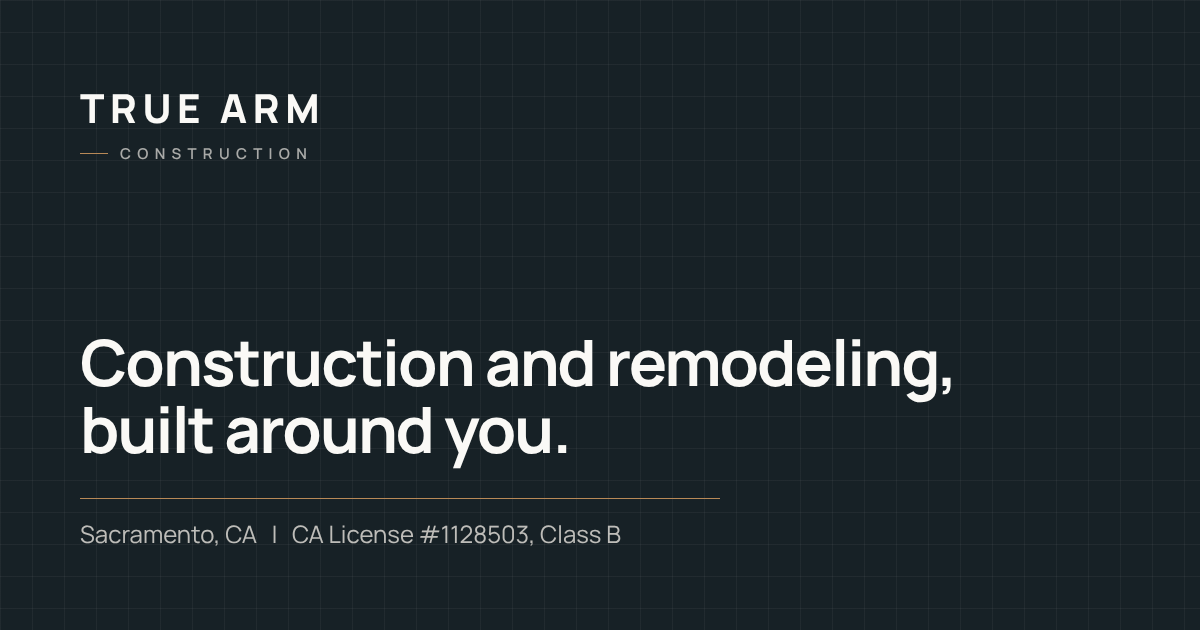
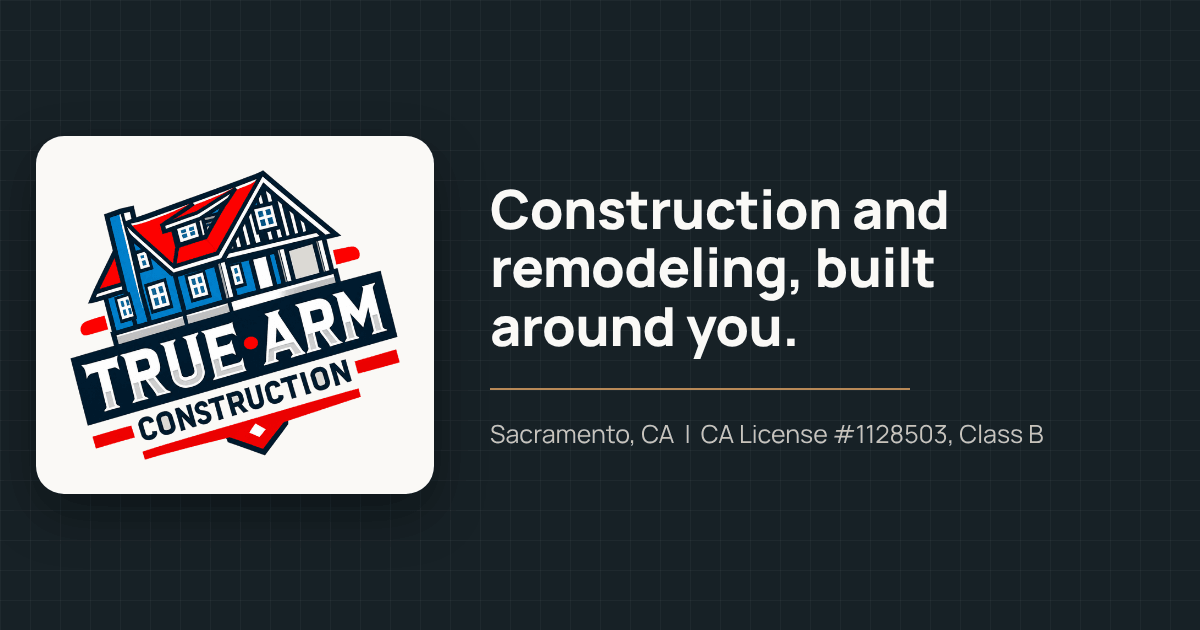
add logic

diff --git a/components/layout/Wordmark.vue b/components/layout/Wordmark.vue
@@ -2,15 +2,25 @@
 import { company } from '~/data/company'
 
 /**
- * Temporary typographic wordmark. Not an official logo.
- * Set company.logo.src to an SVG/PNG to replace it everywhere.
+ * Brand mark. Shows the official logo when company.logo.src is set,
+ * otherwise the typographic fallback wordmark.
+ * On dark backgrounds (tone="light") the logo sits on a light tile, because its
+ * navy "CONSTRUCTION" lettering would disappear on the dark footer.
  */
-withDefaults(defineProps<{ tone?: 'light' | 'dark' }>(), { tone: 'dark' })
+const props = withDefaults(defineProps<{ tone?: 'light' | 'dark'; size?: 'md' | 'lg' }>(), { tone: 'dark', size: 'md' })
+// WebP version lives next to the PNG (same name), see docs/ASSETS.md
+const webp = computed(() => company.logo.src?.replace(/\.png$/i, '.webp'))
+const heightClass = computed(() => (props.size === 'lg' ? 'h-20' : 'h-12 sm:h-14'))
 </script>
 
 <template>
   <span class="inline-flex items-center">
-    <img v-if="company.logo.src" :src="company.logo.src" :alt="company.logo.alt" class="h-9 w-auto" width="160" height="36">
+    <span v-if="company.logo.src" class="inline-flex" :class="tone === 'light' ? 'rounded-xl bg-paper p-2.5' : ''">
+      <picture>
+        <source v-if="webp && webp !== company.logo.src" :srcset="webp" type="image/webp">
+        <img :src="company.logo.src" :alt="company.logo.alt" :class="heightClass" class="w-auto" width="600" height="526" decoding="async">
+      </picture>
+    </span>
     <span v-else class="flex flex-col leading-none" :class="tone === 'light' ? 'text-paper' : 'text-ink'">
       <span aria-hidden="true" class="text-[1.3rem] font-extrabold tracking-[0.14em]">TRUE ARM</span>
       <span aria-hidden="true" class="mt-[5px] flex items-center gap-2 text-[0.6rem] font-semibold tracking-[0.42em]" :class="tone === 'light' ? 'text-stone/70' : 'text-muted'">

diff --git a/components/layout/SiteFooter.vue b/components/layout/SiteFooter.vue
@@ -1,5 +1,5 @@
 <script setup lang="ts">
-import { Instagram } from 'lucide-vue-next'
+import { Instagram, Facebook } from 'lucide-vue-next'
 import { company, formatPhone } from '~/data/company'
 import { serviceGroups, servicesByGroup } from '~/data/services'
 import { enabledAreas } from '~/data/areas'
@@ -14,7 +14,7 @@ const groups = serviceGroups.map((g) => ({ ...g, items: servicesByGroup(g.id) })
   <footer class="on-dark bg-deep text-stone/75">
     <div class="wrap grid gap-12 py-16 lg:grid-cols-12 lg:py-20">
       <div class="lg:col-span-4">
-        <Wordmark tone="light" />
+        <Wordmark tone="light" size="lg" />
         <p class="mt-6 max-w-sm text-[0.9375rem] leading-relaxed">{{ company.description }}</p>
         <div class="mt-6"><LicenseTag tone="dark" /></div>
         <ul class="mt-6 space-y-2 text-[0.9375rem]">
@@ -27,6 +27,11 @@ const groups = serviceGroups.map((g) => ({ ...g, items: servicesByGroup(g.id) })
           <li v-if="company.social.instagram">
             <a :href="company.social.instagram" target="_blank" rel="noopener" class="inline-flex items-center gap-2 font-semibold text-paper hover:underline">
               <Instagram :size="16" aria-hidden="true" /> @truearmconstruction<span class="sr-only"> on Instagram (opens in a new tab)</span>
+            </a>
+          </li>
+          <li v-if="company.social.facebook">
+            <a :href="company.social.facebook" target="_blank" rel="noopener" class="inline-flex items-center gap-2 font-semibold text-paper hover:underline">
+              <Facebook :size="16" aria-hidden="true" /> True Arm Construction<span class="sr-only"> on Facebook (opens in a new tab)</span>
             </a>
           </li>
         </ul>

diff --git a/components/layout/MobileNav.vue b/components/layout/MobileNav.vue
@@ -1,5 +1,5 @@
 <script setup lang="ts">
-import { X, ChevronDown, Instagram, Phone } from 'lucide-vue-next'
+import { X, ChevronDown, Instagram, Facebook, Phone } from 'lucide-vue-next'
 import { company, formatPhone } from '~/data/company'
 import { estimatePath } from '~/data/navigation'
 import type { NavLink } from '~/types'
@@ -110,9 +110,14 @@ const secondary: NavLink[] = [
           </div>
           <div class="mt-8 space-y-3 text-sm text-muted">
             <LicenseTag />
-            <a v-if="company.social.instagram" :href="company.social.instagram" target="_blank" rel="noopener" class="inline-flex items-center gap-2 font-semibold text-ink">
-              <Instagram :size="16" aria-hidden="true" /> Instagram<span class="sr-only"> (opens in a new tab)</span>
-            </a>
+            <div class="flex flex-wrap gap-x-6 gap-y-2">
+              <a v-if="company.social.instagram" :href="company.social.instagram" target="_blank" rel="noopener" class="inline-flex items-center gap-2 font-semibold text-ink">
+                <Instagram :size="16" aria-hidden="true" /> Instagram<span class="sr-only"> (opens in a new tab)</span>
+              </a>
+              <a v-if="company.social.facebook" :href="company.social.facebook" target="_blank" rel="noopener" class="inline-flex items-center gap-2 font-semibold text-ink">
+                <Facebook :size="16" aria-hidden="true" /> Facebook<span class="sr-only"> (opens in a new tab)</span>
+              </a>
+            </div>
           </div>
         </nav>
       </div>

diff --git a/pages/contact.vue b/pages/contact.vue
@@ -1,5 +1,5 @@
 <script setup lang="ts">
-import { Instagram, Mail, MapPin, Phone, Clock } from 'lucide-vue-next'
+import { Instagram, Facebook, Mail, MapPin, Phone, Clock } from 'lucide-vue-next'
 import { company, formatPhone } from '~/data/company'
 
 const title = 'Contact True Arm Construction | Sacramento, CA'
@@ -46,6 +46,10 @@ const { track } = useAnalytics()
               <li v-if="company.social.instagram" class="flex items-center gap-3">
                 <Instagram :size="20" class="text-bronze-dark" aria-hidden="true" />
                 <a :href="company.social.instagram" target="_blank" rel="noopener" class="font-semibold text-ink underline decoration-bronze underline-offset-4">@truearmconstruction<span class="sr-only"> on Instagram (opens in a new tab)</span></a>
+              </li>
+              <li v-if="company.social.facebook" class="flex items-center gap-3">
+                <Facebook :size="20" class="text-bronze-dark" aria-hidden="true" />
+                <a :href="company.social.facebook" target="_blank" rel="noopener" class="font-semibold text-ink underline decoration-bronze underline-offset-4">True Arm Construction<span class="sr-only"> on Facebook (opens in a new tab)</span></a>
               </li>
               <li class="flex items-center gap-3">
                 <MapPin :size="20" class="text-bronze-dark" aria-hidden="true" />

diff --git a/components/layout/SiteHeader.vue b/components/layout/SiteHeader.vue
@@ -1,5 +1,5 @@
 <script setup lang="ts">
-import { ChevronDown, Menu, Instagram } from 'lucide-vue-next'
+import { ChevronDown, Menu, Instagram, Facebook } from 'lucide-vue-next'
 import { company } from '~/data/company'
 import { serviceGroups, servicesByGroup } from '~/data/services'
 import { estimatePath } from '~/data/navigation'
@@ -71,6 +71,9 @@ const isActive = (to: string) => (to === '/' ? route.path === '/' : route.path.s
           <NuxtLink to="/service-areas" class="hover:text-paper">Service Areas</NuxtLink>
           <a v-if="company.social.instagram" :href="company.social.instagram" target="_blank" rel="noopener" class="inline-flex items-center gap-1.5 hover:text-paper">
             <Instagram :size="15" aria-hidden="true" /> Instagram<span class="sr-only"> (opens in a new tab)</span>
+          </a>
+          <a v-if="company.social.facebook" :href="company.social.facebook" target="_blank" rel="noopener" class="inline-flex items-center gap-1.5 hover:text-paper">
+            <Facebook :size="15" aria-hidden="true" /> Facebook<span class="sr-only"> (opens in a new tab)</span>
           </a>
         </nav>
       </div>

diff --git a/nuxt.config.ts b/nuxt.config.ts
@@ -46,11 +46,16 @@ export default defineNuxtConfig({
       viewport: 'width=device-width, initial-scale=1, viewport-fit=cover',
       meta: [
         { name: 'theme-color', content: '#172126' },
-        { name: 'format-detection', content: 'telephone=no' }
+        { name: 'format-detection', content: 'telephone=no' },
+        { name: 'apple-mobile-web-app-title', content: 'True Arm' }
       ],
+      // Icons generated from the official logo (public/images/brand). Google Search uses the
+      // root favicon (multiple of 48px); see docs/ASSETS.md.
       link: [
-        { rel: 'icon', type: 'image/svg+xml', href: '/favicon.svg' },
-        { rel: 'apple-touch-icon', href: '/apple-touch-icon.png' }
+        { rel: 'icon', type: 'image/png', href: '/favicon-96x96.png', sizes: '96x96' },
+        { rel: 'icon', href: '/favicon.ico', sizes: '48x48' },
+        { rel: 'apple-touch-icon', href: '/apple-touch-icon.png', sizes: '180x180' },
+        { rel: 'manifest', href: '/site.webmanifest' }
       ]
     }
   },

diff --git a/data/company.ts b/data/company.ts
@@ -42,12 +42,12 @@ export const company: CompanyConfig = {
 
   social: {
     instagram: 'https://www.instagram.com/truearmconstruction/',
-    facebook: null,
+    facebook: 'https://www.facebook.com/p/True-Arm-Construction-61567774326514/',
     google: null // Google Business Profile URL, when available
   },
 
   logo: {
-    src: null, // e.g. '/images/brand/logo.svg' — replaces the typographic wordmark
+    src: '/images/brand/logo.png', // official logo (transparent PNG, 600×526); master file: true-arm-construction-logo.png
     alt: 'True Arm Construction'
   },
 

diff --git a/docs/ASSETS.md b/docs/ASSETS.md
@@ -2,12 +2,23 @@
 
 All image references live in `data/`. Components never hardcode image paths.
 
-## Logo
-Put `logo.svg` in `public/images/brand/` and set in `data/company.ts`:
-```ts
-logo: { src: '/images/brand/logo.svg', alt: 'True Arm Construction' }
-```
-The typographic wordmark disappears everywhere automatically. Also replace `public/favicon.svg` and `public/apple-touch-icon.png` (180×180).
+## Logo and icons
+The official logo is wired in `data/company.ts` → `logo.src` (header, mobile menu, footer, and Organization schema for Google).
+
+| File | Size | Used for |
+|---|---|---|
+| `public/images/brand/true-arm-construction-logo.png` | 1085×952, transparent | Master file (print, Google Business Profile, social profiles) |
+| `public/images/brand/logo.png` | 600×526, transparent | Site logo + schema.org `logo` |
+| `public/images/brand/logo.webp` | 600×526 | Same, smaller; served first via `<picture>` |
+| `public/favicon.ico` | 16, 32, 48 | Browsers and Google Search results favicon |
+| `public/favicon-96x96.png` | 96×96 | Modern browsers, Google (multiple of 48px) |
+| `public/apple-touch-icon.png` | 180×180, white background | iPhone/iPad home screen |
+| `public/web-app-manifest-192x192.png`, `-512x512.png` | transparent | Android / `site.webmanifest` |
+| `public/web-app-manifest-512x512-maskable.png` | 512×512, white, safe-zone padding | Android adaptive icons |
+| `public/images/social/og-default.png` | 1200×630 | Facebook / iMessage / LinkedIn link previews |
+
+To replace the logo, regenerate every file above from the new master with the same names and sizes.
+Google picks up a new favicon only after it recrawls the homepage (days to weeks); requesting indexing of `/` in Search Console speeds it up.
 
 ## Homepage hero photo
 Until a photo is set, the hero shows a drawn house elevation. To use a real photo (min. 2000px wide, landscape or 4:5):

diff --git a/public/images/README.md b/public/images/README.md
@@ -2,7 +2,7 @@
 
 | Folder | What goes here | Wired up in |
 |---|---|---|
-| `brand/` | Official logo (SVG preferred) | `data/company.ts` → `logo.src` |
+| `brand/` | Official logo (`logo.png` + `logo.webp`, master `true-arm-construction-logo.png`) | `data/company.ts` → `logo.src` |
 | `hero/` | Homepage hero photo (min 2000px wide) | `data/company.ts` → `heroImage` |
 | `services/` | Service photos, e.g. `services/bathroom-1.jpg` | `data/services.ts` → `images` of each service |
 | `projects/<slug>/` | Real project photos (cover, gallery, before/after) | `data/projects.ts` |
